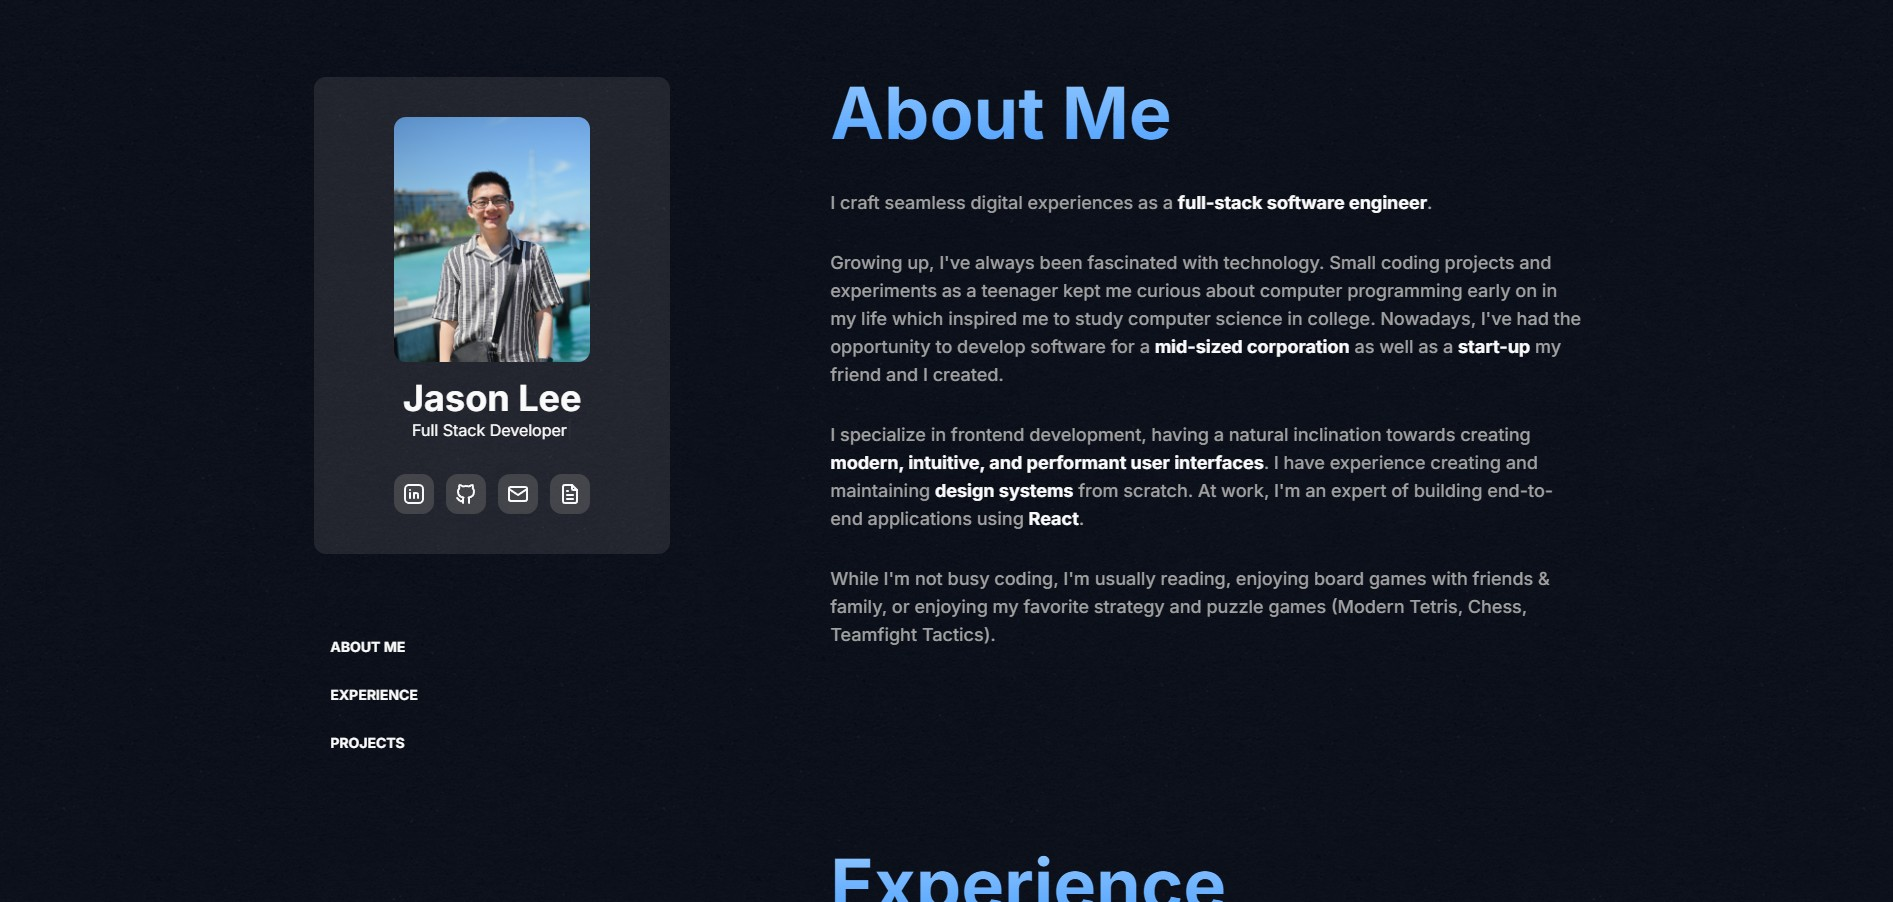
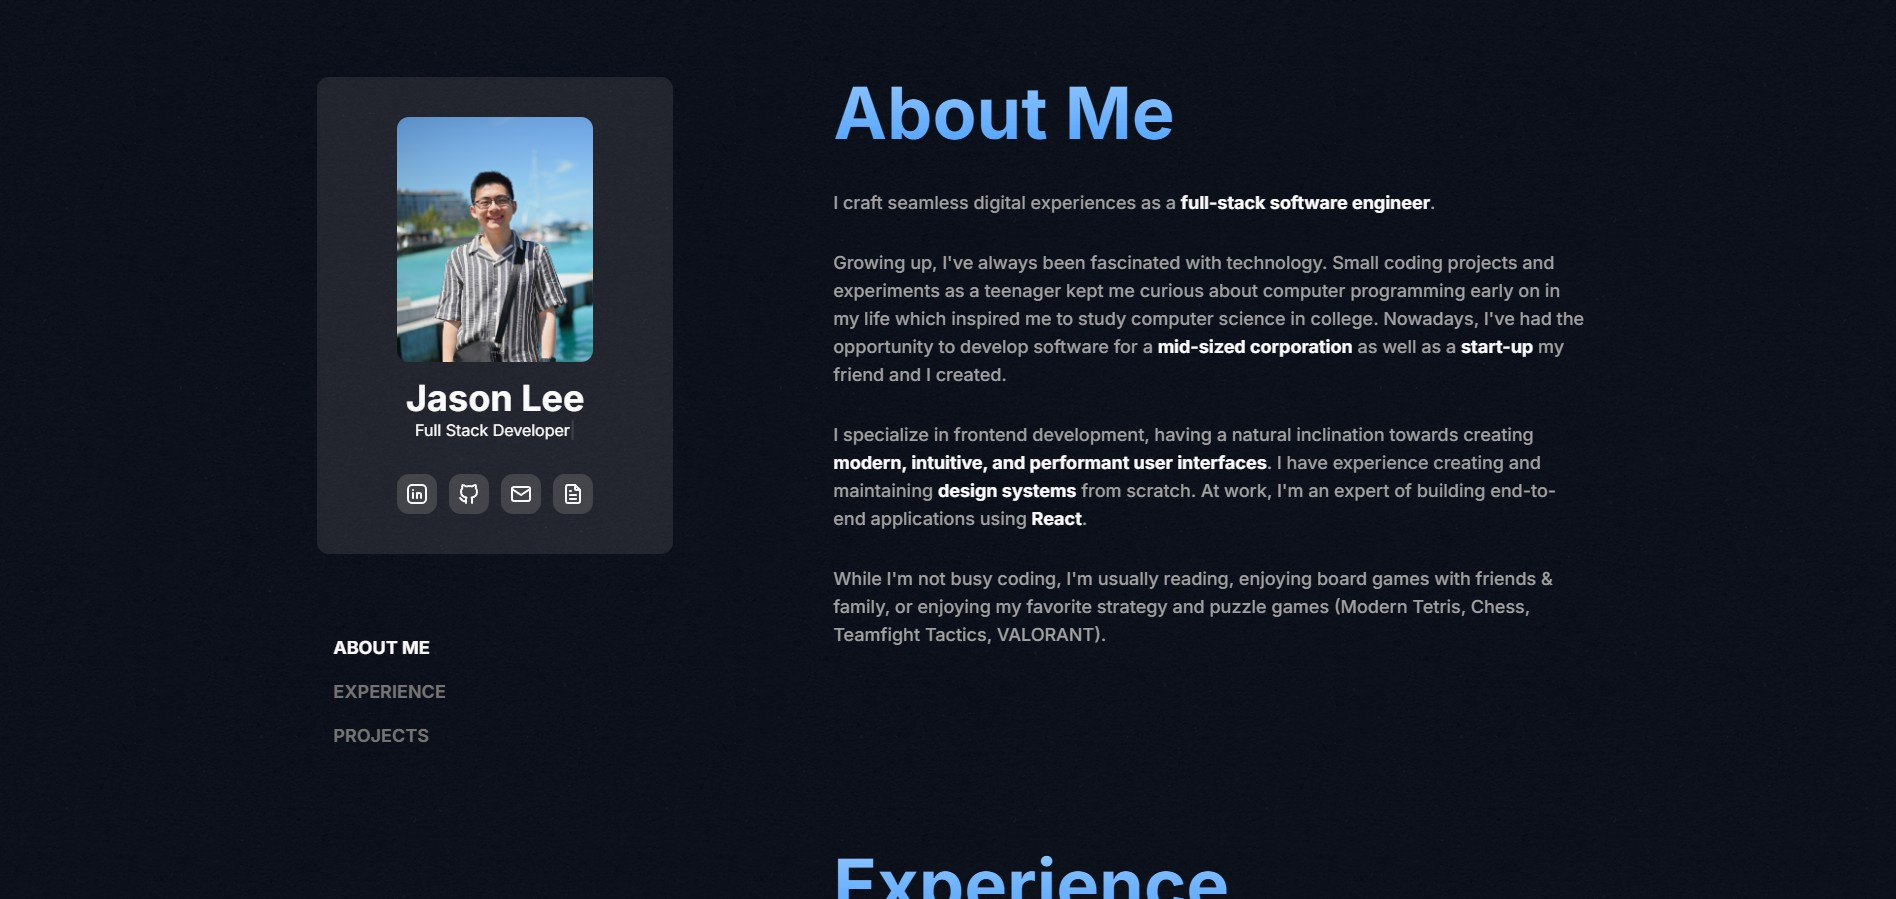
active navlink logic, card spacing

diff --git a/src/components/sections/About.tsx b/src/components/sections/About.tsx
@@ -8,7 +8,7 @@ const About = () => (
       <BodyText>I craft seamless digital experiences as a <BoldText>full-stack software engineer</BoldText>.</BodyText>
       <BodyText>Growing up, I've always been fascinated with technology. Small coding projects and experiments as a teenager kept me curious about computer programming early on in my life which inspired me to study computer science in college. Nowadays, I've had the opportunity to develop software for a <BoldText>mid-sized corporation</BoldText> as well as a <BoldText>start-up</BoldText> my friend and I created.</BodyText>
       <BodyText>I specialize in frontend development, having a natural inclination towards creating <BoldText>modern, intuitive, and performant user interfaces</BoldText>. I have experience creating and maintaining <BoldText>design systems</BoldText> from scratch. At work, I'm an expert of building end-to-end applications using <BoldText>React</BoldText>.</BodyText>
-      <BodyText>While I'm not busy coding, I'm usually reading, enjoying board games with friends & family, or enjoying my favorite strategy and puzzle games (Modern Tetris, Chess, Teamfight Tactics).</BodyText>
+      <BodyText>While I'm not busy coding, I'm usually reading, enjoying board games with friends & family, or enjoying my favorite strategy and puzzle games (Modern Tetris, Chess, Teamfight Tactics, VALORANT).</BodyText>
     </div>
   </Section>
 );

diff --git a/src/components/nav/NavList.tsx b/src/components/nav/NavList.tsx
@@ -1,3 +1,5 @@
+import { useState, useEffect } from "react";
+
 import NavLink from "./NavLink";
 
 const linkData = [
@@ -7,11 +9,32 @@ const linkData = [
 ];
 
 const NavList = () => {
+  const [activeLink, setActiveLink] = useState<string>("about");
+
+  const onScroll = () => {
+    linkData.forEach(({ id }) => {
+      const section = document.querySelector(`#${id}`);
+      if (section) {
+        const dimensions = section.getBoundingClientRect();
+        if (dimensions.top <= 1 && dimensions.bottom > 1) {
+          setActiveLink(id);
+        }
+      }
+    });
+  };
+
+  useEffect(() => {
+    onScroll();
+
+    window.addEventListener("scroll", onScroll);
+    return () => window.removeEventListener("scroll", onScroll);
+  }, []);
+
   return <nav className="hidden xl:flex">
-    <ul className="flex flex-col gap-6">
+    <ul className="flex flex-col gap-4">
       {linkData.map(({ id, label }) =>
         <li key={id} >
-          <NavLink href={`/#${id}`} label={label} />
+          <NavLink href={`/#${id}`} label={label} active={activeLink === id} />
         </li>
       )}
     </ul>

diff --git a/src/components/sections/Experience.tsx b/src/components/sections/Experience.tsx
@@ -18,7 +18,7 @@ const experienceData: ExperienceData[] = [
     title: "Senior Project Software Engineer",
     startDate: "January 2024",
     endDate: "Present",
-    body: "Developing, maintaining, and shipping features for a modern, customer-facing web portal enabling cloud-based management of lighting systems. Advised and trained junior frontend engineers on best practices when contributing to the web portal. Implemented and maintained backend services and integrated with the frontend via RESTful APIs for full end-to-end functionality.",
+    body: "Developing, maintaining, and shipping features for a modern, customer-facing web portal enabling cloud-based management of lighting systems. Advised and trained junior frontend engineers on best practices when contributing frontend code. Implemented and maintained backend services and integrated with the frontend via RESTful APIs for full end-to-end functionality.",
     technologies: ["React", "TypeScript", "JavaScript", "HTML & CSS", "Jest", "Cypress", "AWS", "Go"],
     href: "https://connect.lutron.com"
   },

diff --git a/src/components/nav/NavLink.tsx b/src/components/nav/NavLink.tsx
@@ -3,10 +3,11 @@ import type { PropsWithChildren } from "react";
 type NavLinkProps = {
   href: string;
   label: string;
+  active: boolean;
 };
 
-const NavLink = ({ href, label }: PropsWithChildren<NavLinkProps>) => (
-  <a className="text-neutral-50 select-none text-sm font-bold" href={href}><span className="mr-4 h-px w-8" />{label.toUpperCase()}</a>
+const NavLink = ({ href, label, active }: PropsWithChildren<NavLinkProps>) => (
+  <a className={`${active ? "text-neutral-50" : "text-neutral-500"} hover:text-neutral-50 transition ease-in-out select-none text-lg font-bold`} href={href}><span className="mr-4 h-px w-8" />{label.toUpperCase()}</a>
 );
 
 export default NavLink;

diff --git a/src/components/cards/ExperienceCard.tsx b/src/components/cards/ExperienceCard.tsx
@@ -15,13 +15,15 @@ const ExperienceCard = ({ company, title, startDate, endDate, body, technologies
     <div className="w-full">
       <h5 className="text-neutral-50 text-sm">{startDate} - {endDate}</h5>
     </div>
-    <BodyText>{body}</BodyText>
+    <div className="w-full flex flex-col my-6">
+      <BodyText>{body}</BodyText>
+    </div>
     <div className="flex flex-wrap gap-2 mt-2">
       {technologies.map((technology) =>
         <Badge key={technology}>{technology}</Badge>
       )}
     </div>
-  </Card>
+  </Card >
 );
 
 export default ExperienceCard;

diff --git a/src/components/cards/ProjectCard.tsx b/src/components/cards/ProjectCard.tsx
@@ -14,7 +14,9 @@ const ProjectCard = ({ title, thumbnail, body, technologies, href }: ProjectData
       <CardHeaderText>{title}</CardHeaderText>
       <ExternalLink className="shrink-0" />
     </div>
-    <BodyText>{body}</BodyText>
+    <div className="w-full flex flex-col my-4">
+      <BodyText>{body}</BodyText>
+    </div>
     <div className="flex flex-wrap gap-2 mt-2">
       {technologies.map((technology) =>
         <Badge key={technology}>{technology}</Badge>
